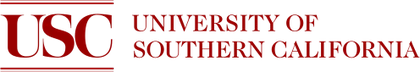
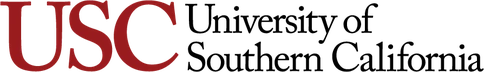
Use the institutions' own files for USC, Toronto and Wisconsin
USC now uses the official informal logotype from identity.usc.edu rather
than the archived Commons lockup. Toronto uses the theme's official mark,
recoloured from its white cut to the university blue because the only
available vector is the on-dark version. Wisconsin uses the institutional
logo from brand.wisc.edu instead of a seal.

Three cells remain typeset: Tundra Solutions, University College London
(ucl.ac.uk returns 403 to automated requests and the only free file is an
unofficial coat of arms) and MatrAIx.

diff --git a/index.html b/index.html
@@ -46,7 +46,7 @@
         <p class="authors-line">Haodi Hu<sup>1</sup>, Haichao Zhang<sup>2</sup>, Cong Wang<sup>3</sup>, Zongtan Li<sup>4</sup>, Qisen Cheng<sup>5</sup>, Zhiwen Qiu<sup>6</sup>, Yi Ge<sup>7</sup>, Lixin Tu<sup>8</sup>, Xihang Yu<sup>9</sup>, Mengzhao Jia<sup>10</sup>, Pengsong Zhang<sup>11</sup>, Yixuan Wang<sup>12</sup>, Xiang Shi<sup>13</sup>, Zheyuan Deng<sup>14</sup>, Jingwen Zhang<sup>15</sup>, Taoran Li<sup>16</sup>, Chang Shi<sup>17</sup>, Pengyi Liao<sup>18</sup>, Yu Wang<sup>19</sup>, Haixin Wang<sup>20</sup>, Yuan Zhuang<sup>21</sup>, Dihong Huang<sup>22</sup>, Zhibin Li<sup>23</sup>, Robert Joseph George<sup>24</sup>, Yueying Li<sup>15</sup>, Yun Fu<sup>2</sup>, Yijun Wang<sup>25</sup>, Xiaomin Li<sup>26</sup>, Yuexing Hao<sup>26</sup></p>
         <p class="authors-count">29 authors · 26 affiliations</p>
         <ul class="authors-logos" aria-label="Institutional affiliations in author superscript order">
-          <li><img src="assets/affiliations/01-usc.webp" width="420" height="72" loading="lazy" decoding="async" alt="University of Southern California"></li><li><img src="assets/affiliations/02-northeastern.webp" width="229" height="72" loading="lazy" decoding="async" alt="Northeastern University"></li><li><img src="assets/affiliations/03-mgh.webp" width="62" height="72" loading="lazy" decoding="async" alt="Massachusetts General Hospital, Harvard University"></li><li><img src="assets/affiliations/04-uga.webp" width="621" height="72" loading="lazy" decoding="async" alt="University of Georgia"></li><li><img src="assets/affiliations/05-michigan.webp" width="369" height="72" loading="lazy" decoding="async" alt="University of Michigan"></li><li><img src="assets/affiliations/06-cornell.webp" width="552" height="72" loading="lazy" decoding="async" alt="Cornell University"></li><li><img src="assets/affiliations/07-umd.webp" width="369" height="72" loading="lazy" decoding="async" alt="University of Maryland, College Park"></li><li><img src="assets/affiliations/08-gatech.webp" width="402" height="72" loading="lazy" decoding="async" alt="Georgia Institute of Technology"></li><li><img src="assets/affiliations/09-mit.webp" width="136" height="72" loading="lazy" decoding="async" alt="Massachusetts Institute of Technology"></li><li><img src="assets/affiliations/10-notre-dame.webp" width="91" height="72" loading="lazy" decoding="async" alt="University of Notre Dame"></li><li class="is-wordmark">University of Toronto</li><li><img src="assets/affiliations/12-illinois.webp" width="414" height="72" loading="lazy" decoding="async" alt="University of Illinois Urbana-Champaign"></li><li><img src="assets/affiliations/13-unr.webp" width="224" height="72" loading="lazy" decoding="async" alt="University of Nevada, Reno"></li><li><img src="assets/affiliations/14-brown.webp" width="411" height="72" loading="lazy" decoding="async" alt="Brown University"></li><li><img src="assets/affiliations/15-nvidia.webp" width="388" height="72" loading="lazy" decoding="async" alt="NVIDIA"></li><li><img src="assets/affiliations/16-tamu.webp" width="321" height="72" loading="lazy" decoding="async" alt="Texas A&M University"></li><li><img src="assets/affiliations/17-ut-austin.webp" width="254" height="72" loading="lazy" decoding="async" alt="The University of Texas at Austin"></li><li class="is-wordmark">Tundra Solutions</li><li class="is-wordmark">University of Wisconsin–Madison</li><li><img src="assets/affiliations/20-ucla.webp" width="224" height="72" loading="lazy" decoding="async" alt="University of California, Los Angeles"></li><li><img src="assets/affiliations/21-uconn.webp" width="240" height="72" loading="lazy" decoding="async" alt="University of Connecticut"></li><li><img src="assets/affiliations/22-cmu.webp" width="800" height="72" loading="lazy" decoding="async" alt="Carnegie Mellon University"></li><li class="is-wordmark">University College London</li><li><img src="assets/affiliations/24-caltech.webp" width="298" height="72" loading="lazy" decoding="async" alt="California Institute of Technology"></li><li><img src="assets/affiliations/25-harvard.webp" width="286" height="72" loading="lazy" decoding="async" alt="Harvard University"></li><li class="is-wordmark">MatrAIx</li>
+          <li><img src="assets/affiliations/01-usc.webp" width="484" height="72" loading="lazy" decoding="async" alt="University of Southern California"></li><li><img src="assets/affiliations/02-northeastern.webp" width="229" height="72" loading="lazy" decoding="async" alt="Northeastern University"></li><li><img src="assets/affiliations/03-mgh.webp" width="62" height="72" loading="lazy" decoding="async" alt="Massachusetts General Hospital, Harvard University"></li><li><img src="assets/affiliations/04-uga.webp" width="621" height="72" loading="lazy" decoding="async" alt="University of Georgia"></li><li><img src="assets/affiliations/05-michigan.webp" width="369" height="72" loading="lazy" decoding="async" alt="University of Michigan"></li><li><img src="assets/affiliations/06-cornell.webp" width="552" height="72" loading="lazy" decoding="async" alt="Cornell University"></li><li><img src="assets/affiliations/07-umd.webp" width="369" height="72" loading="lazy" decoding="async" alt="University of Maryland, College Park"></li><li><img src="assets/affiliations/08-gatech.webp" width="402" height="72" loading="lazy" decoding="async" alt="Georgia Institute of Technology"></li><li><img src="assets/affiliations/09-mit.webp" width="136" height="72" loading="lazy" decoding="async" alt="Massachusetts Institute of Technology"></li><li><img src="assets/affiliations/10-notre-dame.webp" width="91" height="72" loading="lazy" decoding="async" alt="University of Notre Dame"></li><li><img src="assets/affiliations/11-toronto.webp" width="198" height="72" loading="lazy" decoding="async" alt="University of Toronto"></li><li><img src="assets/affiliations/12-illinois.webp" width="414" height="72" loading="lazy" decoding="async" alt="University of Illinois Urbana-Champaign"></li><li><img src="assets/affiliations/13-unr.webp" width="224" height="72" loading="lazy" decoding="async" alt="University of Nevada, Reno"></li><li><img src="assets/affiliations/14-brown.webp" width="411" height="72" loading="lazy" decoding="async" alt="Brown University"></li><li><img src="assets/affiliations/15-nvidia.webp" width="388" height="72" loading="lazy" decoding="async" alt="NVIDIA"></li><li><img src="assets/affiliations/16-tamu.webp" width="321" height="72" loading="lazy" decoding="async" alt="Texas A&M University"></li><li><img src="assets/affiliations/17-ut-austin.webp" width="254" height="72" loading="lazy" decoding="async" alt="The University of Texas at Austin"></li><li class="is-wordmark">Tundra Solutions</li><li><img src="assets/affiliations/19-wisc.webp" width="108" height="72" loading="lazy" decoding="async" alt="University of Wisconsin–Madison"></li><li><img src="assets/affiliations/20-ucla.webp" width="224" height="72" loading="lazy" decoding="async" alt="University of California, Los Angeles"></li><li><img src="assets/affiliations/21-uconn.webp" width="240" height="72" loading="lazy" decoding="async" alt="University of Connecticut"></li><li><img src="assets/affiliations/22-cmu.webp" width="800" height="72" loading="lazy" decoding="async" alt="Carnegie Mellon University"></li><li class="is-wordmark">University College London</li><li><img src="assets/affiliations/24-caltech.webp" width="298" height="72" loading="lazy" decoding="async" alt="California Institute of Technology"></li><li><img src="assets/affiliations/25-harvard.webp" width="286" height="72" loading="lazy" decoding="async" alt="Harvard University"></li><li class="is-wordmark">MatrAIx</li>
         </ul>
         <ol class="authors-legend" aria-label="Affiliation index">
           <li><b>1</b><span>University of Southern California</span></li><li><b>2</b><span>Northeastern University</span></li><li><b>3</b><span>Massachusetts General Hospital, Harvard University</span></li><li><b>4</b><span>University of Georgia</span></li><li><b>5</b><span>University of Michigan</span></li><li><b>6</b><span>Cornell University</span></li><li><b>7</b><span>University of Maryland, College Park</span></li><li><b>8</b><span>Georgia Institute of Technology</span></li><li><b>9</b><span>Massachusetts Institute of Technology</span></li><li><b>10</b><span>University of Notre Dame</span></li><li><b>11</b><span>University of Toronto</span></li><li><b>12</b><span>University of Illinois Urbana-Champaign</span></li><li><b>13</b><span>University of Nevada, Reno</span></li><li><b>14</b><span>Brown University</span></li><li><b>15</b><span>NVIDIA</span></li><li><b>16</b><span>Texas A&M University</span></li><li><b>17</b><span>The University of Texas at Austin</span></li><li><b>18</b><span>Tundra Solutions</span></li><li><b>19</b><span>University of Wisconsin–Madison</span></li><li><b>20</b><span>University of California, Los Angeles</span></li><li><b>21</b><span>University of Connecticut</span></li><li><b>22</b><span>Carnegie Mellon University</span></li><li><b>23</b><span>University College London</span></li><li><b>24</b><span>California Institute of Technology</span></li><li><b>25</b><span>Harvard University</span></li><li><b>26</b><span>MatrAIx</span></li>

diff --git a/assets/affiliations/README.md b/assets/affiliations/README.md
@@ -9,26 +9,27 @@ Files `NN-slug.webp` are ordered by the author superscript number in
 
 ## Sources
 
-Most marks are the institution's own wordmark, resolved from its Wikidata
-"logo image" (P154) claim on Wikimedia Commons (public-domain text logos).
+Marks come from the institution's own brand resources where a usable file
+is published, and otherwise from its Wikidata "logo image" (P154) claim
+on Wikimedia Commons (public-domain text logos).
 
-Two were replaced with the file published by the institution itself:
+Taken from the institution's own site:
 
+- `01-usc.webp` — identity.usc.edu, official informal logotype
 - `04-uga.webp` — brand.uga.edu, horizontal university logo
+- `11-toronto.webp` — utoronto.ca theme mark, recoloured from the white
+  cut to the university blue (#002A5C)
 - `16-tamu.webp` — tamu.edu, primary Texas A&M University lockup
-
-The earlier Texas A&M file was the athletics "aTm" monogram, and the
-earlier UCL file was an unofficial coat of arms; neither belonged here.
+- `19-wisc.webp` — brand.wisc.edu, institutional logo
 
 ## Typeset fallbacks
 
-Five affiliations have no freely licensed official mark, so their names
+Three affiliations have no freely licensed official mark, so their names
 are set in type instead of using an invented or unrelated logo:
 
-- University of Toronto
 - Tundra Solutions
-- University of Wisconsin–Madison (only a seal is freely available)
-- University College London (only an unofficial coat of arms)
+- University College London (the only free file is an unofficial coat of
+  arms, and ucl.ac.uk refuses automated requests)
 - MatrAIx
 
 Replace a text cell with an image only if the institution supplies its
